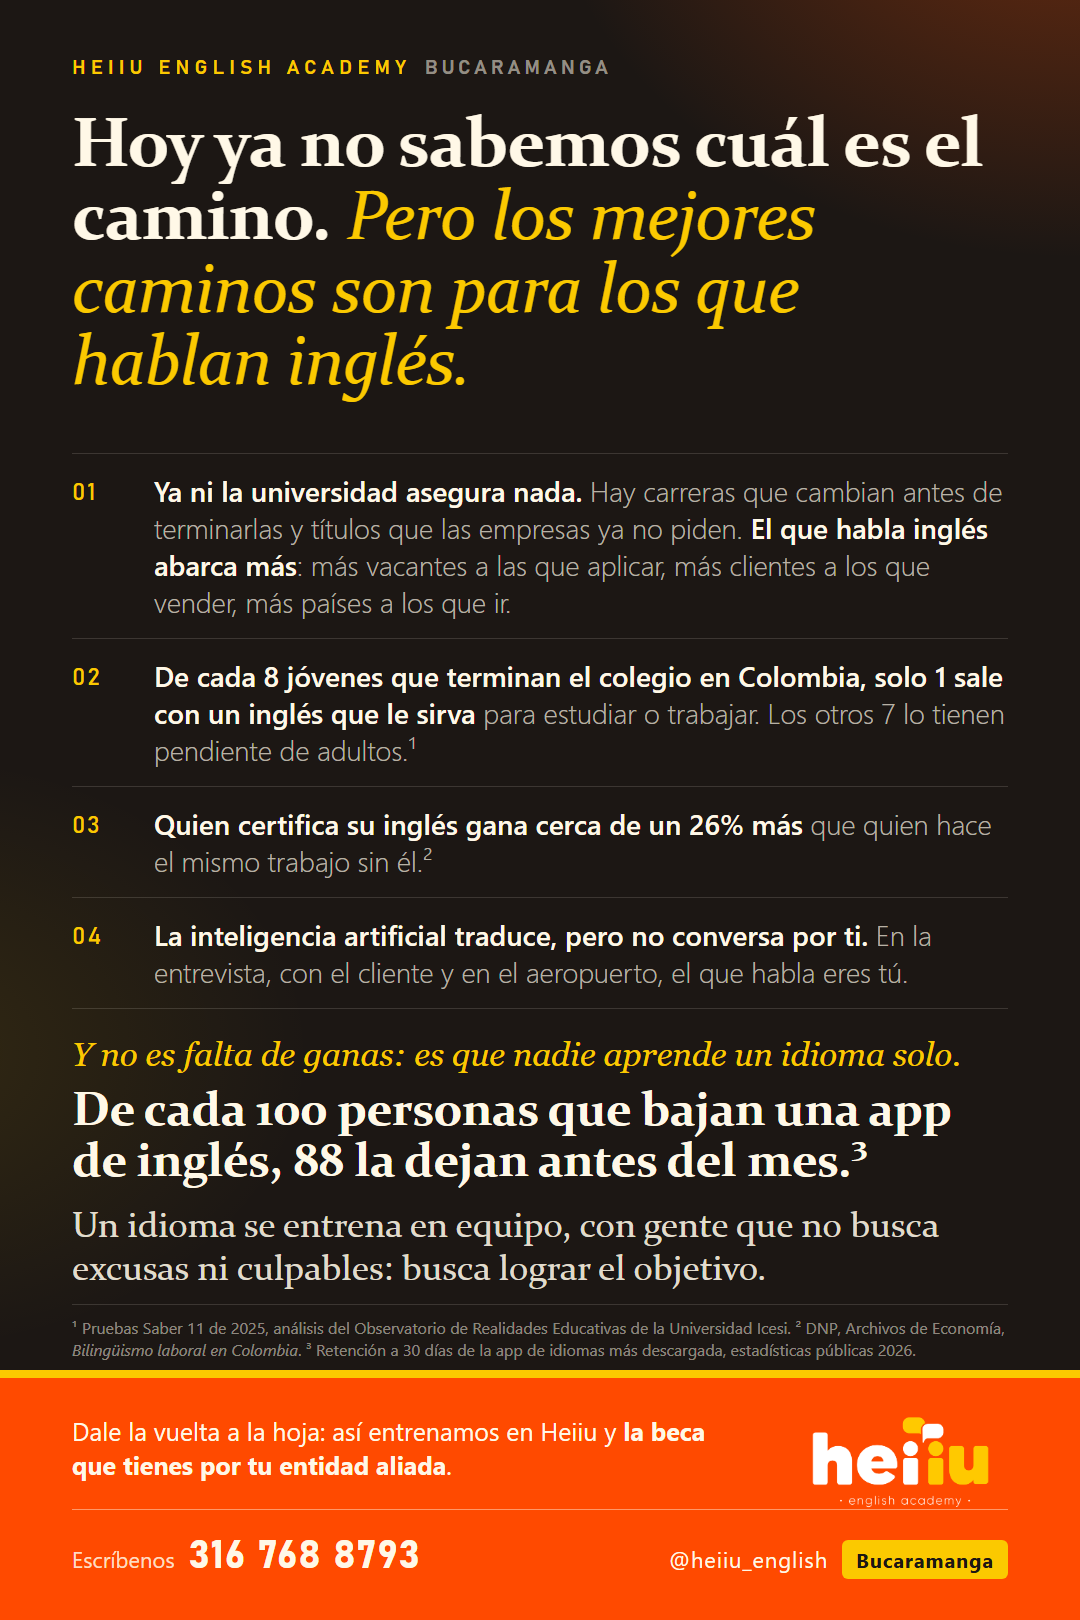
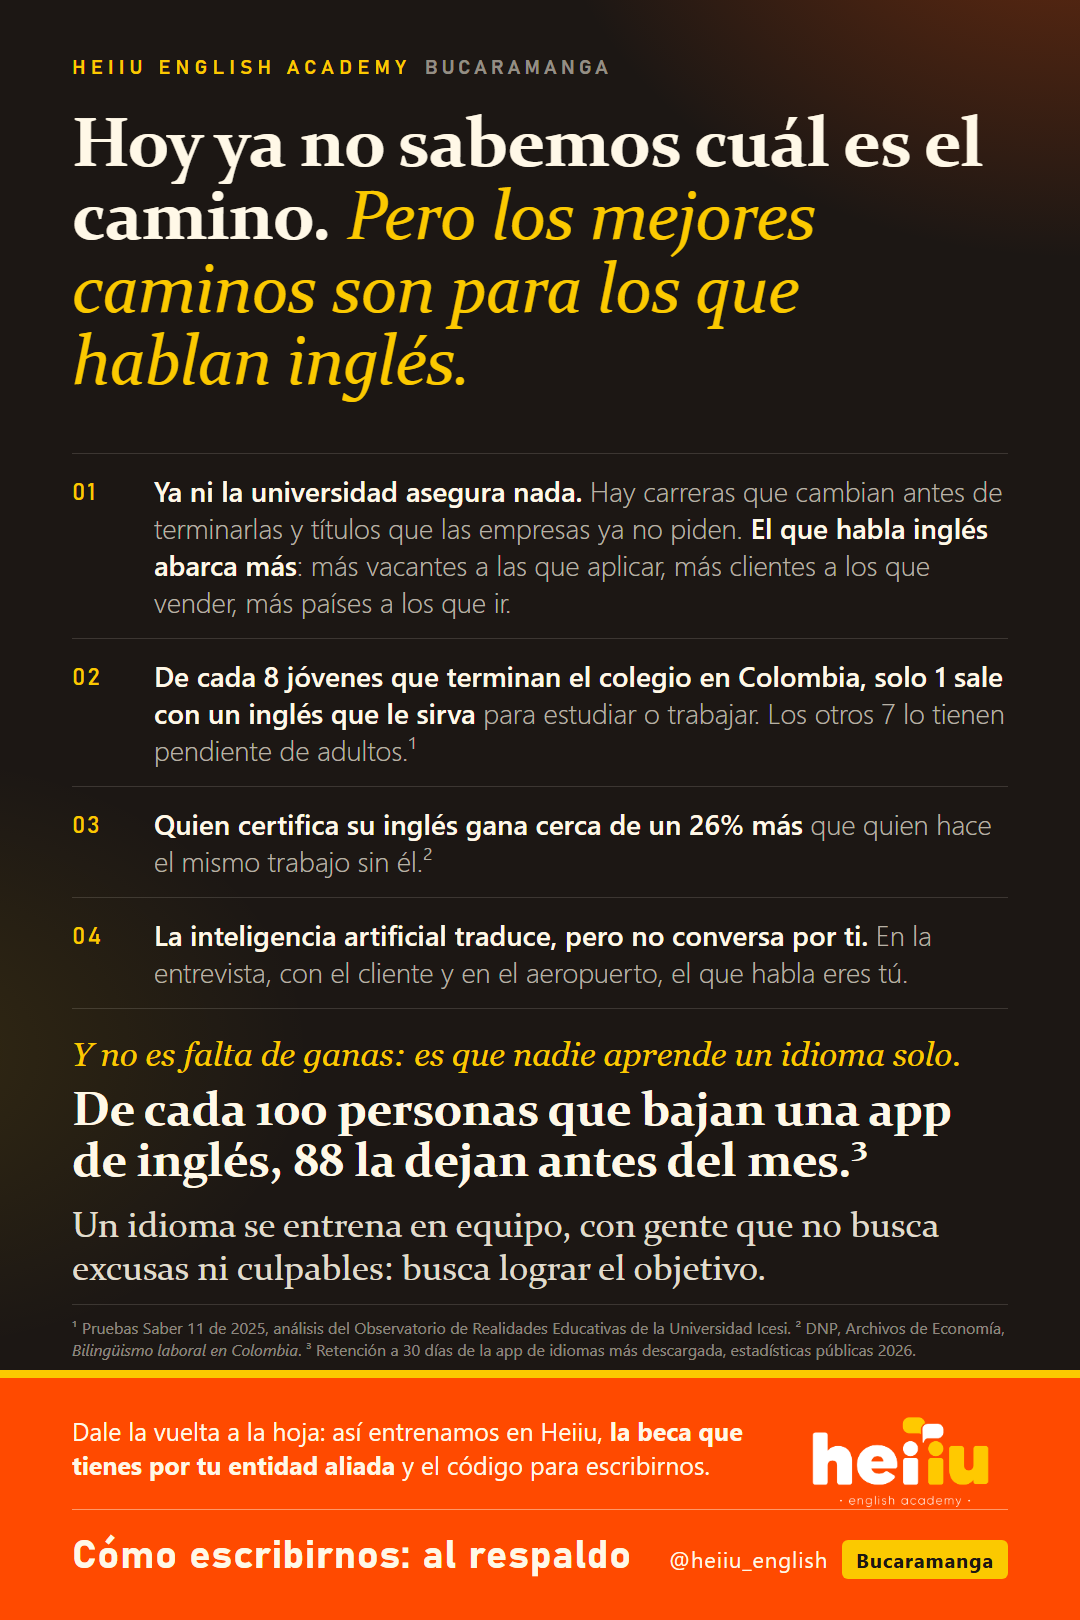
Pieza general: diez respaldos, uno por codigo de asesora, con su QR en la banda y sin numero impreso; frente manda al respaldo; versiones de imprenta en volantes/imprenta (QR verificados por lectura)

Changed region(s): [[0.0611, 0.8642, 0.6722, 0.9877]]

diff --git a/generadores/comercial/gen_piezas_conciencia.py b/generadores/comercial/gen_piezas_conciencia.py
@@ -10,7 +10,9 @@ alianzas reparte las piezas), nunca la línea principal.
 Salida (git): recursos/comercial/campanas/volantes/PIEZA_*.png + copia en la carpeta del gerente de alianzas / volantes.
 Uso: python generadores/comercial/gen_piezas_conciencia.py"""
 import os, shutil, subprocess, pathlib, tempfile
+from urllib.parse import quote
 from PIL import Image
+import qrcode
 
 ROOT = r'C:\Users\pedro\Downloads\diana gt\heiiu\estrategia global Heiiu'
 LOGO_NAR = os.path.join(ROOT, r'recursos\marca heiiu\logo_heiiu_sobre_naranja.png')
@@ -20,6 +22,19 @@ COPIA = os.path.join(ROOT, r'recursos\comercial\INDUCCION_COMERCIAL\contratacion
 EDGE = r'C:\Program Files (x86)\Microsoft\Edge\Application\msedge.exe'
 WORK = os.path.join(tempfile.gettempdir(), 'heiiu_piezas'); os.makedirs(WORK, exist_ok=True)
 LINEA = '316 768 8793'; IG = '@heiiu_english'
+QR_LINEA = '573167688793'; QR_MENSAJE = 'Hola, quiero información para estudiar inglés en Heiiu. Código de asesor: {codigo}'
+CODIGOS_TXT = os.path.join(ROOT, r'recursos\comercial\INDUCCION_COMERCIAL\contratacion comercial\LINKEDIN DIANA GOMEZ\Candidatos\John Hinestroza\plan referidos\codigos_asesoras.txt')
+
+
+def codigos():
+    if os.path.exists(CODIGOS_TXT): return [l.strip() for l in open(CODIGOS_TXT, encoding='utf-8') if l.strip() and not l.startswith('#')]
+    return ['C-%02d' % i for i in range(1, 11)]
+
+
+def qr_png(codigo):
+    enlace = 'https://wa.me/%s?text=%s' % (QR_LINEA, quote(QR_MENSAJE.format(codigo=codigo)))
+    q = qrcode.QRCode(error_correction=qrcode.constants.ERROR_CORRECT_L, box_size=10, border=1); q.add_data(enlace); q.make(fit=True)
+    out = os.path.join(WORK, 'qr_%s.png' % codigo); q.make_image(fill_color=(28, 23, 20), back_color='white').save(out); return out
 W, H = 1080, 1620
 
 
@@ -82,6 +97,10 @@ blockquote b { font-weight: 700 } blockquote cite { display: block; font-style: 
 .band p { font-size: 25px; line-height: 1.34; color: #FFF8E7 }
 .band p b { font-weight: 700 }
 .band .logo { width: 215px; margin-top: -12px; justify-self: end }
+.band .qrbox { position: absolute; right: 60px; top: 22px; width: 240px; background: #FFF8E7; border-radius: 14px; padding: 9px 9px 6px 9px; text-align: center }
+.band .qrbox img { width: 206px; display: block; margin: 0 auto }
+.band .qrbox span { font-family: Bahnschrift, sans-serif; font-weight: 700; font-size: 26px; color: #E54C09; display: block; margin-top: 2px; letter-spacing: .04em }
+.band.qr .cta { right: 330px } .band.qr .cta .tel { font-size: 26px; font-weight: 400 }
 .band .codigo { justify-self: end; width: 215px; border: 3px dashed rgba(255,248,231,.85); border-radius: 12px; padding: 10px 12px 8px 12px; text-align: center; margin-top: -8px }
 .band .codigo .k { font-family: Bahnschrift, sans-serif; font-size: 15px; letter-spacing: .12em; color: #FFF8E7; display: block; margin-bottom: 4px }
 .band .codigo .v { font-family: Bahnschrift, sans-serif; font-size: 34px; font-weight: 700; color: #FFF8E7; display: block; line-height: 1 }
@@ -117,8 +136,8 @@ PIEZAS = {
         big='De cada 100 personas que bajan una app de inglés, 88 la dejan antes del mes.³',
         big2='Un idioma se entrena en equipo, con gente que no busca excusas ni culpables: busca lograr el objetivo.',
         fn='¹ Pruebas Saber 11 de 2025, análisis del Observatorio de Realidades Educativas de la Universidad Icesi. ² DNP, Archivos de Economía, <i>Bilingüismo laboral en Colombia</i>. ³ Retención a 30 días de la app de idiomas más descargada, estadísticas públicas 2026.',
-        band='Dale la vuelta a la hoja: así entrenamos en Heiiu y <b>la beca que tienes por tu entidad aliada</b>.',
-        band_px=250),
+        band='Dale la vuelta a la hoja: así entrenamos en Heiiu, <b>la beca que tienes por tu entidad aliada</b> y el código para escribirnos.',
+        tel='Cómo escribirnos: <b>al respaldo</b>', band_px=250),
     'GENERAL_ASESORAS_RESPALDO': dict(   # cara 2: el Pacto con las palabras de gerencia (texto vigente 15/10/2026), por que Heiiu, beca y como escribir
         compact=True, theme='light', label='ASÍ ES HEIIU', sub='LEE ESTO ANTES DE DECIDIR',
         h1='Vender inglés es fácil. <em>Lo difícil es que aprendas.</em>',
@@ -135,8 +154,8 @@ PIEZAS = {
              ('SE NOTA, Y SE PUEDE MOSTRAR', 'Te grabamos el primer día y el último del nivel. Pon los dos videos juntos y no vas a necesitar que nadie te diga que avanzaste. <b>En casa tampoco tendrán que creerte: lo oyen.</b>', False),
              ('PUERTAS AFUERA, PERO SEGURAS', 'Cuando veas a dónde te puede llevar tu inglés, te contactamos con operadores verificados de programas en el exterior: au pair, trabajo de temporada, campamentos. Solo puertas seguras.', False),
              ('LA CONTRASEÑA', 'Los médicos se reconocen por el amor a aprender. Aquí la contraseña es otra y con ella entra cualquiera: <b>el amor por salir adelante</b>. Sin excusas, con dolor y con la meta al frente. Así, estás entre los tuyos.', False)],
-        band='<b>Alguien ya apostó por ti:</b> por tu entidad aliada tienes beca. Escanea el QR de tu asesora o escríbenos con su código en el primer mensaje. <b>Sin código no hay beca.</b>',
-        codigo=True, band_px=290),
+        band='<b>Alguien ya apostó por ti:</b> por tu entidad aliada tienes beca. Escanea el código de tu asesora: el mensaje ya sale listo con su código. <b>Sin código no hay beca.</b>',
+        por_codigo=True, band_px=290),
     '1_PROFESIONALES': dict(
         label='PROGRAMA INDIVIDUAL', sub='MÉDICOS · PROFESIONALES · DIRECTIVOS',
         h1='Su inglés, <em>en su agenda.</em>',
@@ -213,6 +232,14 @@ def html(c):
     st = ('<ol class="st">%s</ol>' % st) if st else ''
     big2 = '<p class="big2">%s</p>' % c['big2'] if c['big2'] else ''
     logo = pathlib.Path(LOGO_NAR).as_uri()
+    if c.get('qr'):
+        derecha = '<div class="qrbox"><img src="%s"><span>%s</span></div>' % (pathlib.Path(qr_png(c['qr'])).as_uri(), c['qr'])
+        tel = 'Escanea el código de tu asesora: <b>%s</b>' % c['qr']
+    elif c.get('codigo'):
+        derecha = '<div class="codigo"><span class="k">CÓDIGO DE TU ASESORA</span><span class="v">C-<span></span></span></div>'; tel = '<small>Escríbenos</small>' + LINEA
+    else:
+        derecha = '<img class="logo" src="%s">' % logo
+        tel = c['tel'] if c.get('tel') else '<small>Escríbenos</small>' + LINEA
     why = ''
     quote = ('<blockquote>%s<cite>%s</cite></blockquote>' % (c['quote'], c.get('cite', ''))) if c.get('quote') else ''
     if c.get('intro'): quote = '<p class="intro">%s</p>' % c['intro'] + quote
@@ -224,13 +251,16 @@ def html(c):
     return ('<!doctype html><html><head><meta charset="utf-8"><style>%s%s%s</style></head><body><div class="page">'
             '<div class="top"><div class="label">%s<span>%s</span></div><h1>%s</h1><div class="rule"></div>%s'
             '%s<div class="pivot"><p class="lead">%s</p><p class="big">%s</p>%s</div>%s%s</div>'
-            '<div class="band"><p>%s</p>%s'
-            '<div class="cta"><div class="tel"><small>Escríbenos</small>%s</div><div class="ig">%s<b>Bucaramanga</b></div></div></div>'
+            '<div class="band%s"><p>%s</p>%s'
+            '<div class="cta"><div class="tel">%s</div><div class="ig">%s<b>Bucaramanga</b></div></div></div>'
             '</div></body></html>') % (CSS % dict(W=W, H=c.get('H', H), BAND=c['band_px']), COMPACT if c.get('compact') else '', LIGHT if c.get('theme') == 'light' else '', c['label'], c['sub'], c['h1'], quote, st, c['lead'], c['big'], big2, why, fn,
-                                       c['band'], ('<div class="codigo"><span class="k">CÓDIGO DE TU ASESORA</span><span class="v">C-<span></span></span></div>' if c.get('codigo') else '<img class="logo" src="%s">' % logo), LINEA, IG)
+                                       (' qr' if c.get('qr') else ''), c['band'], derecha, tel, IG)
 
 
 def render(nombre, c):
+    if c.get('por_codigo') and not c.get('qr'):
+        for cod in codigos(): render('%s_%s' % (nombre, cod), dict(c, qr=cod, por_codigo=False))
+        return
     hp = os.path.join(WORK, nombre + '.html'); png = os.path.join(WORK, nombre + '.png')
     open(hp, 'w', encoding='utf-8').write(html(c))
     if os.path.exists(png): os.remove(png)
@@ -261,9 +291,9 @@ def sangrado(nombre, mm=3, ppp=274):
     out.paste(im.crop((0, 0, 1, h)).resize((b, h)), (0, b)); out.paste(im.crop((w - 1, 0, w, h)).resize((b, h)), (w + b, b))
     for (x, y, px, py) in ((0, 0, 0, 0), (w + b, 0, w - 1, 0), (0, h + b, 0, h - 1), (w + b, h + b, w - 1, h - 1)):
         out.paste(Image.new('RGB', (b, b), im.getpixel((px, py))), (x, y))
-    for d in (OUTDIR, COPIA):
-        p = os.path.join(d, 'PIEZA_%s_IMPRENTA_10x15_sangrado3mm.png' % nombre); out.save(p, dpi=(ppp, ppp)); print('IMPRENTA', p)
+    for d in (os.path.join(OUTDIR, 'imprenta'), os.path.join(COPIA, 'imprenta')):
+        os.makedirs(d, exist_ok=True); p = os.path.join(d, 'PIEZA_%s_IMPRENTA_10x15_sangrado3mm.png' % nombre); out.save(p, dpi=(ppp, ppp)); print('IMPRENTA', p)
 
 
 if __name__ == '__main__' and os.environ.get('SANGRADO'):
-    for k in ('GENERAL_ASESORAS_FRENTE', 'GENERAL_ASESORAS_RESPALDO'): sangrado(k)
+    for k in ['GENERAL_ASESORAS_FRENTE'] + ['GENERAL_ASESORAS_RESPALDO_' + c for c in codigos()]: sangrado(k)
